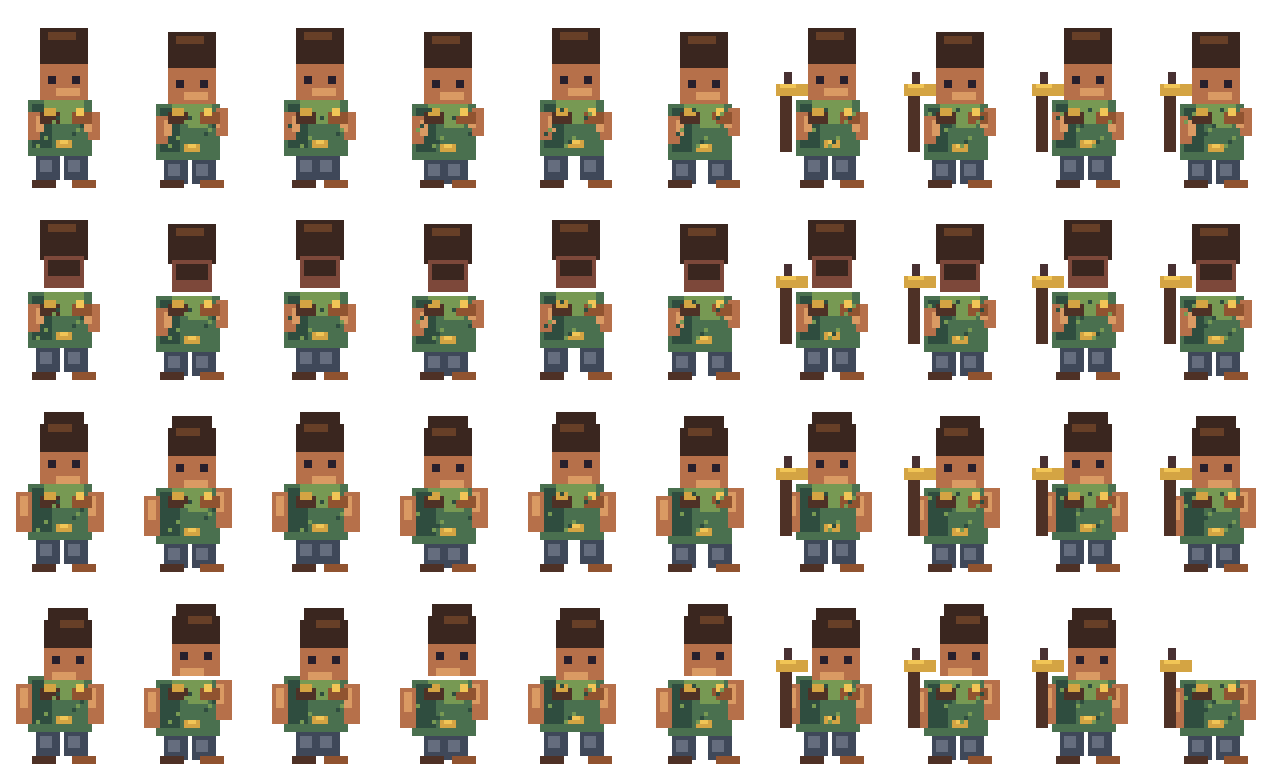
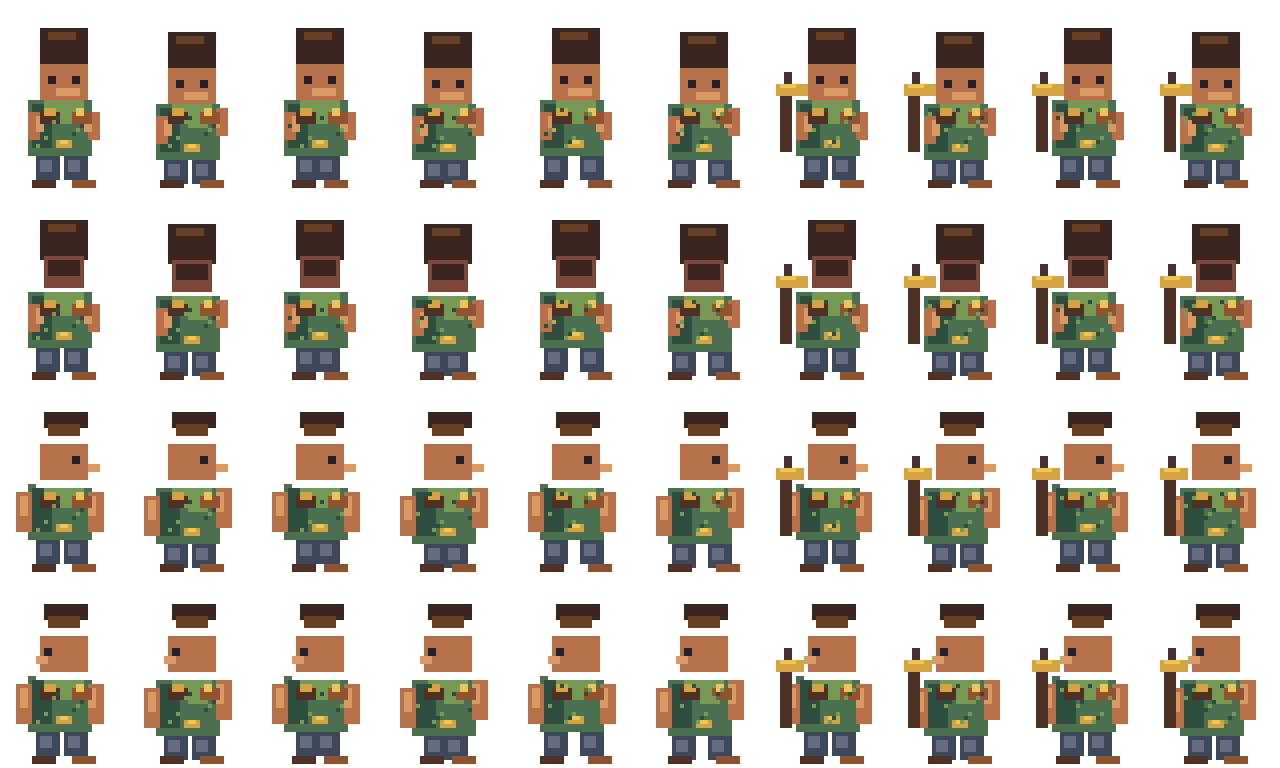
art(civilization): fix gatherer profiles and menu silhouettes

diff --git a/tools/generate-building-thumbnails-v3.js b/tools/generate-building-thumbnails-v3.js
@@ -1,0 +1,1 @@
+const fs=require('fs');const {PNG}=require('pngjs');const root='public/civilization/ui';const O=[39,31,44,255],B=[126,72,42,255],C=[145,83,57,255],M=[74,112,79,255],G=[212,164,67,255],S=[128,126,112,255],T=[51,111,107,255],L=[108,177,155,255],W=[205,195,164,255];const names=['shelter','house','storage','workshop','farm','road','well','drying','kiln','granary','forge','market','assembly','trading','records','town'];function px(p,x,y,w,h,c){for(let Y=y;Y<y+h;Y++)for(let X=x;X<x+w;X++){const i=(Y*p.width+X)*4;for(let k=0;k<4;k++)p.data[i+k]=c[k]}}const p=new PNG({width:256,height:16});for(let n=0;n<16;n++){const o=n*16,R=(x,y,w,h,c)=>px(p,o+x,y,w,h,c);R(2,13,12,2,O);if([0,1,12,15].includes(n)){R(3,7,10,6,B);R(2,6,12,2,n===15?G:M);R(5,3,6,3,n===0?M:G);R(7,9,3,6,O)}else if(n===2){R(2,7,12,6,B);R(2,5,12,2,S);R(6,9,4,6,O)}else if(n===3){R(2,8,12,5,C);R(2,6,12,2,S);R(5,4,6,3,S);R(11,2,2,5,O)}else if(n===4){R(2,5,12,9,B);R(4,7,2,7,M);R(8,7,2,7,M);R(12,7,2,7,M)}else if(n===5){R(0,8,16,5,B);R(2,6,12,2,G)}else if(n===6){R(3,6,10,8,S);R(5,8,6,5,T);R(2,5,12,2,S)}else if(n===7){R(4,5,2,10,B);R(10,5,2,10,B);R(5,6,6,2,G);R(5,10,6,2,W)}else if(n===8){R(3,7,10,8,C);R(5,4,6,5,C);R(6,9,4,6,O);R(5,3,6,2,G)}else if(n===9){R(3,7,10,8,B);R(2,5,12,2,M);R(6,9,4,6,O);R(5,3,6,2,G)}else if(n===10){R(3,8,10,7,S);R(4,5,8,3,S);R(6,2,3,5,O);R(5,4,6,2,C)}else if(n===11||n===13){R(2,8,12,6,B);R(1,6,14,3,G);R(5,3,6,3,M);R(7,10,3,4,O)}else if(n===14){R(3,7,10,7,S);R(2,5,12,2,S);R(6,9,4,5,O);R(5,3,6,2,T)}}function s4(z){const o=new PNG({width:z.width*4,height:z.height*4});for(let y=0;y<z.height;y++)for(let x=0;x<z.width;x++){const q=(y*z.width+x)*4;for(let Y=0;Y<4;Y++)for(let X=0;X<4;X++){const i=((y*4+Y)*o.width+x*4+X)*4;for(let k=0;k<4;k++)o.data[i+k]=z.data[q+k]}}return o}fs.writeFileSync(`${root}/building-thumbnails-16-v3.png`,PNG.sync.write(p));fs.writeFileSync(`${root}/building-thumbnails-16-v3-4x-preview.png`,PNG.sync.write(s4(p)));fs.writeFileSync(`${root}/building-thumbnails-16-v3.metadata.json`,JSON.stringify({assetId:'ui_building_thumbnails_v3',frameWidth:16,frameHeight:16,frames:16,order:names,notes:'Distinct pitched, flat, arched, awning, well and field silhouettes; no floating pixels',background:'transparent',license:'Original project asset; © Evolution Sandbox contributors'},null,2)+'\n');console.log('wrote thumbnail v3')

diff --git a/tools/fix-gatherer-profiles.js b/tools/fix-gatherer-profiles.js
@@ -1,0 +1,12 @@
+const fs = require('fs');
+const { PNG } = require('pngjs');
+const path = 'public/civilization/characters/gatherer-directions-32x48.png';
+const p = PNG.sync.read(fs.readFileSync(path));
+const O = [39,31,44,255], SK = [182,112,74,255], SKL = [218,154,99,255], H = [58,38,31,255], HL = [103,63,39,255];
+function px(x,y,w,h,c){for(let yy=y;yy<y+h;yy++)for(let xx=x;xx<x+w;xx++){const i=(yy*p.width+xx)*4;for(let k=0;k<4;k++)p.data[i+k]=c[k];}}
+function head(col,row,west){const ox=col*32,oy=row*48;px(ox+9,oy+6,15,20,[0,0,0,0]);px(ox+11,oy+7,11,4,H);px(ox+12,oy+10,8,3,HL);px(ox+10,oy+15,12,9,SK);px(ox+(west?11:18),oy+18,2,2,O);px(ox+(west?9:22),oy+20,3,2,SKL);}
+for(const row of [2,3]) for(let col=0;col<10;col++) head(col,row,row===3);
+fs.writeFileSync(path,PNG.sync.write(p));
+const out=new PNG({width:p.width*4,height:p.height*4});for(let y=0;y<p.height;y++)for(let x=0;x<p.width;x++){const s=(y*p.width+x)*4;for(let Y=0;Y<4;Y++)for(let X=0;X<4;X++){const d=((y*4+Y)*out.width+x*4+X)*4;for(let k=0;k<4;k++)out.data[d+k]=p.data[s+k];}}
+fs.writeFileSync('public/civilization/characters/gatherer-directions-4x-preview.png',PNG.sync.write(out));
+console.log('repaired gatherer side profiles and west work head');

diff --git a/docs/civilization-overhaul/ASSET_MANIFEST.md b/docs/civilization-overhaul/ASSET_MANIFEST.md
@@ -215,6 +215,7 @@
 | `event_part2_cards` | `public/civilization/events/part2-event-cards.png` | Event illustration strip | 384x64 (64x64 cells) | 6 | — | — | Center | Harvest festival, disagreement, flood warning, migration, policy change, discovery milestone |
 | `ui_building_thumbnails_refresh` | `public/civilization/ui/building-thumbnails-16.png` | Refreshed thumbnail strip | 256x16 (16x16 cells) | 16 | — | — | Center | Highlight pass for clearer silhouettes at game scale |
 | `ui_building_thumbnails_v2` | `public/civilization/ui/building-thumbnails-16-v2.png` | Refreshed thumbnail strip | 256x16 (16x16 cells) | 16 | — | — | Center | Stronger highlight clusters; preferred compact UI variant |
+| `ui_building_thumbnails_v3` | `public/civilization/ui/building-thumbnails-16-v3.png` | Refreshed thumbnail strip | 256x16 (16x16 cells) | 16 | — | — | Center | Distinct pitched/flat/arched/awning/well/field silhouettes; no floating pixels |
 
 ## Integration contract and placeholders (maintained by `CODE`, the lead developer)
 
